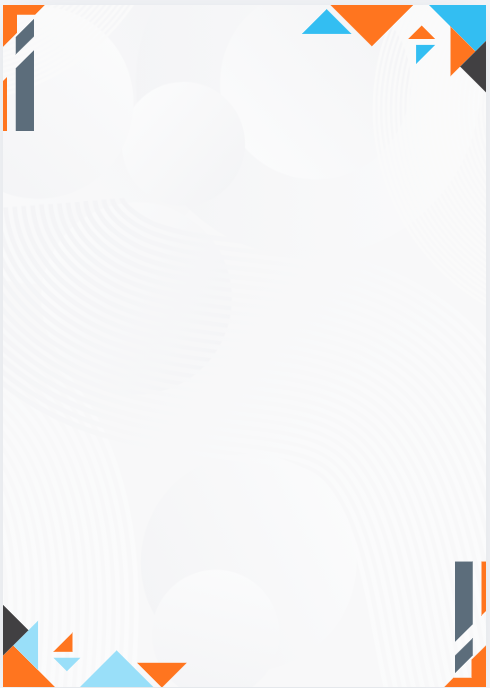
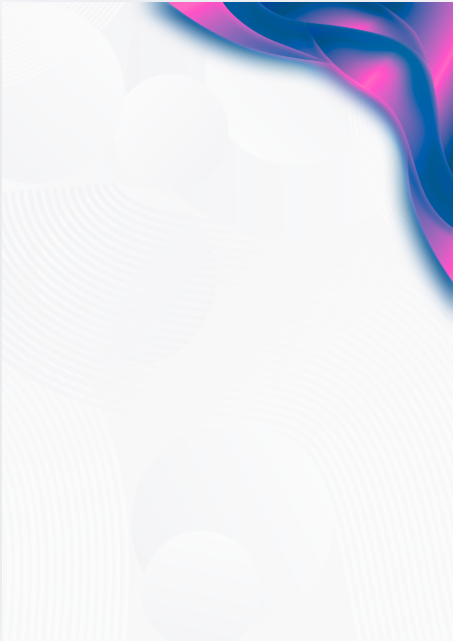
Print every article on the new sheet
The artwork you sent as the second image is byte-identical to the sheet
already in use, so it is the one being replaced; the first is the update.
Swapped in, and the sheet ratio follows it from 490x688 to 453x641 so the
ribbon is never stretched. One reader serves every post, so this reaches
all of them at once.

The ribbon needed the margins moved. Measured off the artwork with its soft
fade included, it is a wedge over the top right: 49% of the way down, 31.6%
in at the top edge, and at the height the first line sits at its inner edge
is 78.9% across. Against the old margins the title and standfirst ran
straight under it and the opening paragraphs ran into its tail.

So the column stops at 74% and the right margin is now much the wider of
the two, with the flourish living in it. The foot pays for that: the sheet
this replaces carried ornaments in all four corners, the new one draws
nothing along the bottom, so the bottom margin drops from 14.5% to 9.5% and
each sheet holds more lines than before.

It cannot instead be a float the text wraps around, which would have kept
the full width lower down. Every block is measured once, in a hidden sheet
at one fixed width, before the packer knows which sheet it lands on — a
column that changed width with height would measure at one width and render
at another, and the sheets would overflow.

Checked by stepping through all 11 sheets of all 5 articles and comparing
[…]

diff --git a/web/src/components/PaperReader.tsx b/web/src/components/PaperReader.tsx
@@ -13,13 +13,31 @@ import React, { useCallback, useEffect, useLayoutEffect, useRef, useState } from
  * so a sheet never overflows and never breaks mid-paragraph.
  */
 
-/** The artwork is 490 x 688, and the sheet keeps that ratio exactly so the
- *  corner ornaments never stretch. */
-const SHEET_RATIO = 688 / 490;
+/** The artwork is 453 x 641, and the sheet keeps that ratio exactly so the
+ *  ribbon never stretches. */
+const SHEET_RATIO = 641 / 453;
 
-/** Margins as a fraction of the sheet, clear of the corner ornaments. */
-const PAD_X = 0.11;
-const PAD_Y = 0.145;
+/** Margins as a fraction of the sheet, kept clear of the ribbon.
+ *
+ *  The ribbon is a wedge over the top right: measured off the artwork,
+ *  including its soft fade, it reaches 49% of the way down and, at the
+ *  height the first line sits at, its inner edge is 78.9% across. So the
+ *  column has to stop short of that, and the right margin is much the wider
+ *  of the two — the flourish lives in it.
+ *
+ *  It cannot instead be a float the text wraps around. Every block is
+ *  measured once, in a hidden sheet at one fixed width, before the packer
+ *  knows which sheet it will land on; a column that changed width with
+ *  height would measure at one width and render at another, and the sheets
+ *  would overflow. A uniform column is what this paginator can honour.
+ *
+ *  The foot is reclaimed to pay for it: unlike the sheet this replaces,
+ *  which carried ornaments in all four corners, nothing is drawn along the
+ *  bottom, so the text can run closer to it. */
+const PAD_LEFT = 0.11;
+const PAD_RIGHT = 0.26;
+const PAD_TOP = 0.17;
+const PAD_BOTTOM = 0.095;
 
 type Block = { key: string; node: React.ReactNode; heading?: boolean };
 
@@ -117,8 +135,8 @@ export default function PaperReader({
   const blocks = React.useMemo(() => toBlocks(content), [content]);
 
   const sheetH = sheetW * SHEET_RATIO;
-  const contentW = sheetW * (1 - PAD_X * 2);
-  const contentH = sheetH * (1 - PAD_Y * 2);
+  const contentW = sheetW * (1 - PAD_LEFT - PAD_RIGHT);
+  const contentH = sheetH * (1 - PAD_TOP - PAD_BOTTOM);
 
   // Track the sheet's real width so the measuring pass uses the same box the
   // reader will use.
@@ -290,7 +308,9 @@ export default function PaperReader({
           <div
             className="paper-content paper-ink"
             style={{
-              padding: sheetW ? `${sheetH * PAD_Y}px ${sheetW * PAD_X}px` : undefined,
+              padding: sheetW
+                ? `${sheetH * PAD_TOP}px ${sheetW * PAD_RIGHT}px ${sheetH * PAD_BOTTOM}px ${sheetW * PAD_LEFT}px`
+                : undefined,
             }}
           >
             {page === 0 && Masthead}
